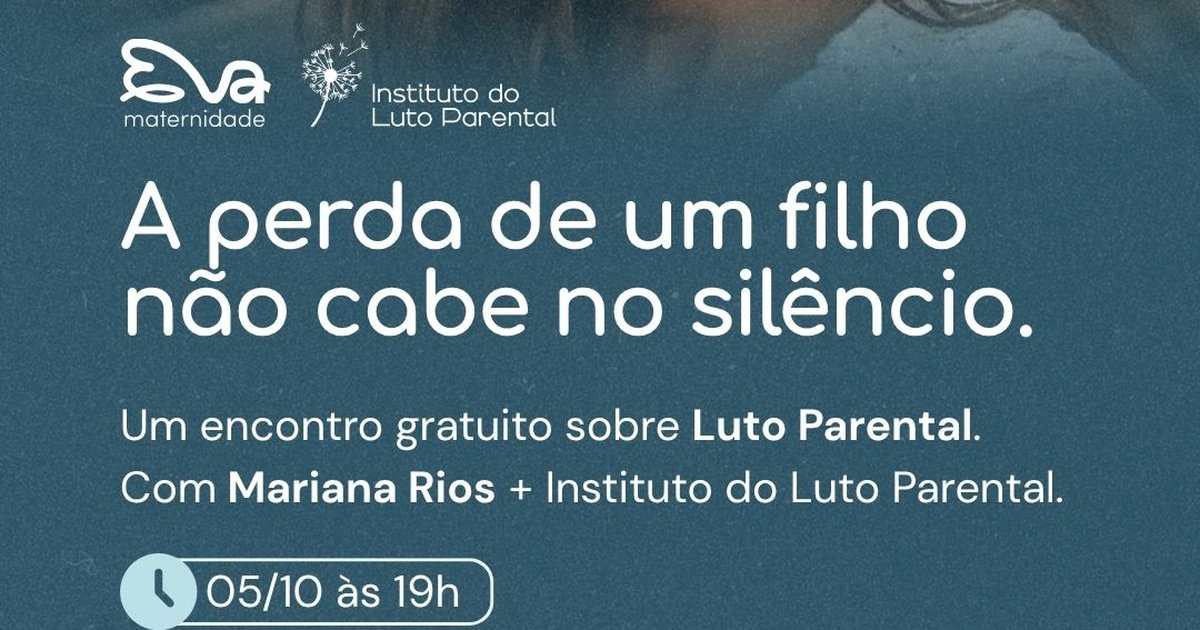
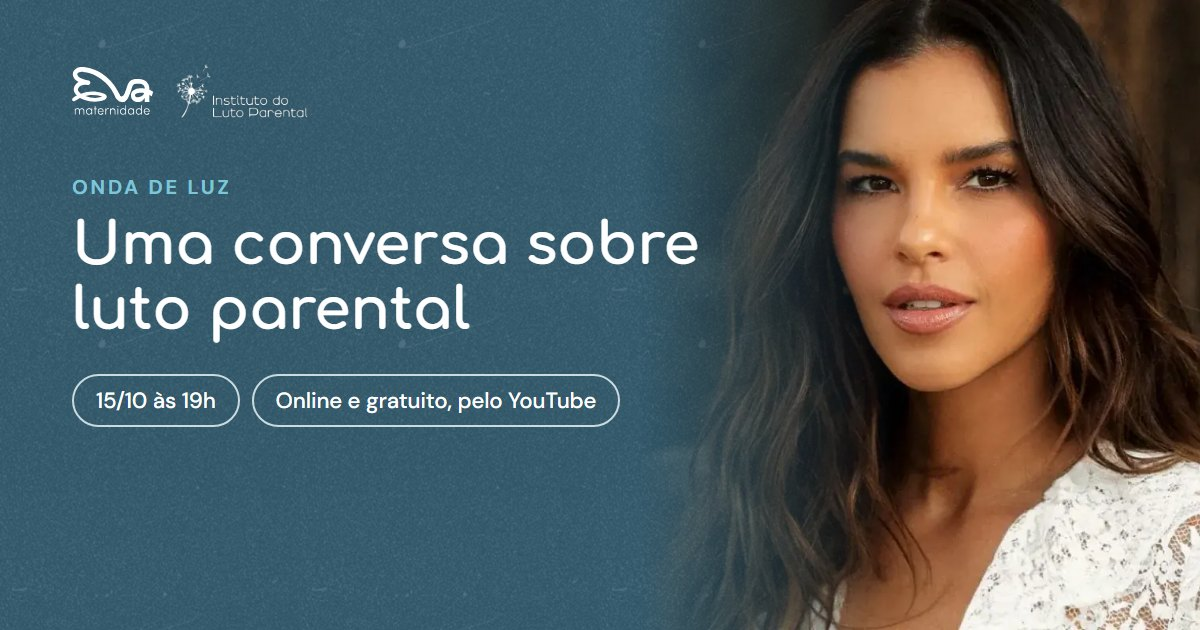
Apply team review: Onda de Luz, 15/10, host and copy updates

diff --git a/index.html b/index.html
@@ -3,13 +3,13 @@
 <head>
 <meta charset="utf-8">
 <meta name="viewport" content="width=device-width, initial-scale=1, viewport-fit=cover">
-<title>Masterclass Luto Parental | Eva Maternidade + Instituto do Luto Parental</title>
-<meta name="description" content="A perda de um filho não cabe no silêncio. Encontro online e gratuito sobre luto parental com Mariana Rios e Damiana Angrimani, do Instituto do Luto Parental. 05/10 às 19h, pelo YouTube.">
+<title>Onda de Luz: uma conversa sobre luto parental | Eva Maternidade + Instituto do Luto Parental</title>
+<meta name="description" content="Uma conversa online e gratuita sobre luto parental, conduzida por Nathália Tôrres, com Mariana Rios e Damiana Angrimani, do Instituto do Luto Parental. 15/10, às 19h, pelo YouTube.">
 <meta name="theme-color" content="#2F5668">
 <meta property="og:type" content="website">
 <meta property="og:locale" content="pt_BR">
-<meta property="og:title" content="Masterclass Luto Parental: a perda de um filho não cabe no silêncio">
-<meta property="og:description" content="Encontro online e gratuito com Mariana Rios e Damiana Angrimani, do Instituto do Luto Parental. 05/10 às 19h, pelo YouTube.">
+<meta property="og:title" content="Onda de Luz: uma conversa sobre luto parental">
+<meta property="og:description" content="15/10, às 19h, online e gratuito pelo YouTube. Com Nathália Tôrres, Mariana Rios e Damiana Angrimani.">
 <meta property="og:url" content="https://mp-syntx.github.io/luto_lp/">
 <meta property="og:image" content="https://mp-syntx.github.io/luto_lp/assets/img/og-image.jpg">
 <meta property="og:image:width" content="1200">
@@ -46,56 +46,59 @@
   </picture>
   <div class="wrap">
     <div class="hero-content">
-      <p class="kicker">Masterclass Luto Parental</p>
-      <h1>A perda de um filho não cabe no silêncio.</h1>
-      <p class="sub">Um bate-papo aberto e gratuito com <b>Mariana Rios</b> e <b>Damiana Angrimani</b>, do Instituto do Luto Parental, sobre o luto de quem perdeu um bebê: na gestação, no nascimento ou enquanto tentava engravidar.</p>
+      <p class="kicker">Onda de Luz · Uma conversa sobre luto parental</p>
+      <h1>Nenhuma perda precisa ser lembrada em silêncio.</h1>
+      <p class="sub">Uma conversa aberta e gratuita conduzida por <b>Nathália Tôrres</b>, fundadora da Eva Maternidade, com <b>Mariana Rios</b> e <b>Damiana Angrimani</b>, do Instituto do Luto Parental, sobre o luto de quem perdeu um bebê: em tratamentos e tentativas, na gestação ou depois do nascimento.</p>
       <ul class="chips">
-        <li class="chip"><span class="chip-ico" aria-hidden="true"><svg viewBox="0 0 24 24"><circle cx="12" cy="12" r="9"/><path d="M12 7v5l3 2"/></svg></span>05/10 às 19h</li>
+        <li class="chip"><span class="chip-ico" aria-hidden="true"><svg viewBox="0 0 24 24"><circle cx="12" cy="12" r="9"/><path d="M12 7v5l3 2"/></svg></span>15/10 às 19h</li>
         <li class="chip"><span class="chip-ico" aria-hidden="true"><svg viewBox="0 0 24 24"><rect x="3" y="6" width="18" height="12" rx="4"/><path d="M10.5 9.5v5l4-2.5z" class="fill"/></svg></span>Online, pelo YouTube</li>
       </ul>
       <a class="btn btn-light" href="#inscricao">Quero me inscrever</a>
-      <p class="apoio">Você não precisa passar por isso sozinha.</p>
     </div>
   </div>
-  <p class="mes"><span>Outubro, mês do luto gestacional, neonatal e infantil</span></p>
+  <p class="mes"><span>15 de outubro, Dia Internacional de Luto pela Perda Gestacional e Infantil</span></p>
 </section>
 
 <section class="publico">
   <div class="wrap">
     <div class="head">
-      <span class="tag">Pra quem é</span>
-      <h2>Cada luto tem a sua história</h2>
+      <span class="tag">Para quem é</span>
+      <h2>Cada luto tem uma história. E cada história merece espaço, escuta e cuidado.</h2>
     </div>
     <div class="cards">
       <article class="card">
         <div class="ico" aria-hidden="true"><svg viewBox="0 0 24 24"><circle cx="12" cy="12" r="8"/><path d="M12 8v4l2.5 2"/></svg></div>
-        <h3>Pra quem perdeu enquanto tentava engravidar</h3>
-        <p>As perdas que quase ninguém vê e que se repetem a cada ciclo também são luto. E merecem espaço.</p>
+        <h3>Para quem vive perdas durante tratamentos ou tentativas</h3>
+        <p>Para quem perdeu embriões, enfrentou ciclos sem o resultado esperado ou vive, mês após mês, o luto de perceber que a gravidez não aconteceu.</p>
         <a href="#inscricao">Quero participar <span aria-hidden="true">→</span></a>
       </article>
       <article class="card">
         <div class="ico" aria-hidden="true"><svg viewBox="0 0 24 24"><path d="M12 20s-7-4.4-7-10a4 4 0 0 1 7-2.6A4 4 0 0 1 19 10c0 5.6-7 10-7 10z"/></svg></div>
-        <h3>Pra quem perdeu um bebê na gestação ou depois do nascimento</h3>
-        <p>Pra falar do que aconteceu, do que mudou e de como seguir com essa saudade no dia a dia.</p>
+        <h3>Para quem perdeu um bebê na gestação ou depois do nascimento</h3>
+        <p>Para falar sobre o que aconteceu, o que mudou e como seguir.</p>
         <a href="#inscricao">Quero participar <span aria-hidden="true">→</span></a>
       </article>
       <article class="card">
         <div class="ico" aria-hidden="true"><svg viewBox="0 0 24 24"><circle cx="9" cy="12" r="5"/><circle cx="15" cy="12" r="5"/></svg></div>
-        <h3>Pra quem está grávida de novo ou já tem outro bebê</h3>
-        <p>A alegria de agora não apaga a perda de antes. As duas coisas podem existir juntas.</p>
+        <h3>Para quem viveu uma perda e agora é gestante ou tem outros filhos</h3>
+        <p>Uma nova alegria não apaga a perda anterior. Amor, medo, saudade e esperança podem coexistir na mesma história.</p>
         <a href="#inscricao">Quero participar <span aria-hidden="true">→</span></a>
       </article>
     </div>
-    <p class="nota">Também é pra <b>parceiros, avós, amigas e profissionais</b> que querem entender como acolher.</p>
+    <p class="nota">Também é para <b>parceiros, família, amigos, colegas de trabalho e profissionais</b> que querem aprender a acolher.</p>
   </div>
 </section>
 
 <section class="sobre grain">
   <div class="wrap">
-    <div class="duo">
+    <div class="duo trio">
+      <figure class="pessoa">
+        <div class="moldura"><img src="assets/img/nathalia-recorte.webp" alt="Nathália Tôrres" width="400" height="400" loading="lazy"></div>
+        <figcaption>Nathália Tôrres<small>Host · Fundadora da Eva Maternidade</small></figcaption>
+      </figure>
       <figure class="pessoa">
         <div class="moldura"><img src="assets/img/mariana-recorte.webp" alt="Mariana Rios" width="343" height="345" loading="lazy"></div>
-        <figcaption>Mariana Rios</figcaption>
+        <figcaption>Mariana Rios<small>Eva Maternidade</small></figcaption>
       </figure>
       <figure class="pessoa">
         <div class="moldura"><img src="assets/img/damiana-recorte.webp" alt="Damiana Angrimani" width="345" height="369" loading="lazy"></div>
@@ -106,9 +109,10 @@
       <span class="tag tag-dark">O encontro</span>
       <h2>Um bate-papo, não uma aula</h2>
       <ul class="checks checks-dark">
-        <li>Conversa em formato de roda, com Mariana Rios e Damiana Angrimani, do Instituto do Luto Parental</li>
-        <li>Espaço pra entender o luto parental e as diferentes formas de vivê-lo</li>
-        <li>Caminhos práticos pra lidar com datas, comentários e o retorno à rotina</li>
+        <li>Começamos às 19h com a Onda de Luz: acenda uma vela com a gente e, se quiser, escreva o nome do seu bebê no chat.</li>
+        <li>Conversa em formato de roda, conduzida por Nathália Tôrres, com Mariana Rios e Damiana Angrimani</li>
+        <li>Espaço para entender o luto parental e as diferentes formas de vivê-lo</li>
+        <li>Caminhos práticos para lidar com a dor, comentários e o retorno à rotina</li>
         <li>Participação pelo chat, com perguntas respondidas ao vivo</li>
       </ul>
       <a class="btn btn-light" href="#inscricao">Quero me inscrever</a>
@@ -124,11 +128,11 @@
     <div>
       <span class="tag tag-inst">Parceiro</span>
       <h2>Instituto do Luto Parental</h2>
-      <p class="txt">O Instituto nasceu pra acolher famílias que enfrentam a dor da perda gestacional, perinatal, neonatal e infantil. Eles acolhem, informam e formam profissionais, com rodas de conversa e acompanhamento feito por quem entende do assunto.</p>
+      <p class="txt">O Instituto nasceu para acolher famílias que enfrentam a dor da perda gestacional, perinatal, neonatal e infantil. Atua para acolher, informar e formar profissionais, com rodas de conversa e acompanhamento feito por quem entende do assunto.</p>
       <ul class="inst-lista">
         <li><span class="inst-ico" aria-hidden="true"><svg viewBox="0 0 24 24"><circle cx="8" cy="9" r="3"/><circle cx="16" cy="9" r="3"/><path d="M2.5 19c.6-3 2.8-5 5.5-5s4.9 2 5.5 5M10.5 19c.6-3 2.8-5 5.5-5s4.9 2 5.5 5"/></svg></span>Rodas de conversa gratuitas, online e presenciais, com grupos separados por experiência</li>
         <li><span class="inst-ico" aria-hidden="true"><svg viewBox="0 0 24 24"><path d="M12 20s-7-4.4-7-10a4 4 0 0 1 7-2.6A4 4 0 0 1 19 10c0 5.6-7 10-7 10z"/></svg></span>Mais de 9 mil pessoas acolhidas e 171 rodas de acolhimento realizadas</li>
-        <li><span class="inst-ico" aria-hidden="true"><svg viewBox="0 0 24 24"><path d="M3 7l9-4 9 4-9 4z"/><path d="M7 9v5c0 1.7 2.2 3 5 3s5-1.3 5-3V9"/></svg></span>Mais de 90 voluntários e formação em humanização do luto pra profissionais de saúde</li>
+        <li><span class="inst-ico" aria-hidden="true"><svg viewBox="0 0 24 24"><path d="M3 7l9-4 9 4-9 4z"/><path d="M7 9v5c0 1.7 2.2 3 5 3s5-1.3 5-3V9"/></svg></span>Mais de 90 voluntários e formação em humanização do luto para profissionais de saúde</li>
       </ul>
     </div>
   </div>
@@ -140,11 +144,11 @@
       <span class="tag">Dúvidas</span>
       <h2>Perguntas frequentes</h2>
     </div>
-    <details open><summary><span class="n">01</span>Quanto custa?<span class="pl" aria-hidden="true"></span></summary><p>A masterclass é gratuita.</p></details>
+    <details open><summary><span class="n">01</span>Quanto custa?<span class="pl" aria-hidden="true"></span></summary><p>O encontro é gratuito.</p></details>
     <details><summary><span class="n">02</span>Como eu assisto?<span class="pl" aria-hidden="true"></span></summary><p>É online, pelo YouTube. O link chega no seu e-mail e WhatsApp depois da inscrição.</p></details>
     <details><summary><span class="n">03</span>Preciso abrir a câmera ou falar?<span class="pl" aria-hidden="true"></span></summary><p>Não. Você pode só ouvir, de forma anônima, sem precisar se identificar. Se quiser, manda perguntas pelo chat.</p></details>
-    <details><summary><span class="n">04</span>Minha perda foi no começo da gestação. Esse encontro é pra mim?<span class="pl" aria-hidden="true"></span></summary><p>Sim. Todo luto conta, não importa a semana ou a forma como aconteceu.</p></details>
-    <details><summary><span class="n">05</span>Estou grávida de novo. Vou me sentir bem no encontro?<span class="pl" aria-hidden="true"></span></summary><p>O tema é aberto e vai falar de experiências diferentes. Se preferir um espaço mais reservado, as rodas fechadas da Eva separam os grupos por experiência.</p></details>
+    <details><summary><span class="n">04</span>Minha perda foi no começo da gestação. Esse encontro é para mim?<span class="pl" aria-hidden="true"></span></summary><p>Sim. Todo luto conta, não importa a semana ou a forma como aconteceu.</p></details>
+    <details><summary><span class="n">05</span>Estou grávida de novo. Vou me sentir bem no encontro?<span class="pl" aria-hidden="true"></span></summary><p>O tema é aberto e vai falar de experiências diferentes. Se preferir um espaço mais reservado, as rodas fechadas que acontecem dentro da plataforma da Eva Maternidade separam os grupos por experiência.</p></details>
     <details><summary><span class="n">06</span>Posso participar se não sou a mãe?<span class="pl" aria-hidden="true"></span></summary><p>Pode. Parceiros, familiares, amigas e profissionais são bem-vindos.</p></details>
   </div>
 </section>
@@ -153,9 +157,9 @@
   <div class="wrap">
     <div class="final-txt">
       <p class="kicker">Inscrição gratuita</p>
-      <h2>Você não precisa passar por isso sozinha</h2>
+      <h2>Reserve seu lugar nessa conversa.</h2>
       <ul class="chips">
-        <li class="chip"><span class="chip-ico" aria-hidden="true"><svg viewBox="0 0 24 24"><circle cx="12" cy="12" r="9"/><path d="M12 7v5l3 2"/></svg></span>05/10 às 19h</li>
+        <li class="chip"><span class="chip-ico" aria-hidden="true"><svg viewBox="0 0 24 24"><circle cx="12" cy="12" r="9"/><path d="M12 7v5l3 2"/></svg></span>15/10 às 19h</li>
         <li class="chip"><span class="chip-ico" aria-hidden="true"><svg viewBox="0 0 24 24"><rect x="3" y="6" width="18" height="12" rx="4"/><path d="M10.5 9.5v5l4-2.5z" class="fill"/></svg></span>Online, pelo YouTube</li>
       </ul>
     </div>
@@ -171,14 +175,15 @@
         <label for="f-whats">WhatsApp
           <input id="f-whats" name="phone" type="tel" autocomplete="tel-national" inputmode="tel" placeholder="(11) 90000-0000" required>
         </label>
-        <label for="f-exp"><span>Qual a sua experiência? <span class="opt">(opcional)</span></span>
+        <label for="f-exp"><span>Qual é a sua relação com o tema? <span class="opt">(opcional)</span></span>
           <select id="f-exp" name="experiencia">
             <option value="">Prefiro não dizer</option>
-            <option>Perdi tentando engravidar</option>
-            <option>Perdi na gestação ou após o nascimento</option>
-            <option>Estou grávida ou com bebê depois de uma perda</option>
-            <option>Acompanho alguém</option>
-            <option>Sou profissional</option>
+            <option>Vivi uma perda em tratamento ou tentativa de engravidar</option>
+            <option>Vivi uma perda gestacional ou neonatal</option>
+            <option>Vivi uma perda e hoje estou grávida ou tenho outros filhos</option>
+            <option>Vivi a perda como parceiro ou parceira</option>
+            <option>Sou familiar ou amigo(a) de alguém que viveu uma perda</option>
+            <option>Trabalho com o tema</option>
           </select>
         </label>
         <p class="form-err" id="f-err" role="alert" hidden></p>
@@ -188,7 +193,7 @@
       <div class="form-ok" id="f-ok" tabindex="-1" hidden>
         <span class="ok-ico" aria-hidden="true"><svg viewBox="0 0 24 24"><path d="M5 12l5 5 9-10"/></svg></span>
         <h3>Inscrição feita</h3>
-        <p>O link do encontro chega no seu e-mail e WhatsApp. Até dia 05/10, às 19h.</p>
+        <p>O link do encontro chega no seu e-mail e WhatsApp. Até dia 15/10, às 19h.</p>
       </div>
     </form>
   </div>

diff --git a/styles.css b/styles.css
@@ -59,12 +59,12 @@ section{padding-block:88px;position:relative}
 /* hero */
 .hero{padding-block:96px 120px;overflow:hidden;min-height:min(92vh,820px);display:flex;align-items:center}
 .hero .wrap{width:100%}
-.hero-content{max-width:560px;position:relative}
+.hero-content{max-width:620px;position:relative}
 .hero-media{position:absolute;top:0;right:0;bottom:0;width:58%;z-index:-1}
 .hero-media img{width:100%;height:100%;object-fit:cover;object-position:50% 30%;
   -webkit-mask-image:linear-gradient(to right,transparent 0%,rgba(0,0,0,.55) 22%,#000 45%),linear-gradient(to top,transparent 0%,#000 30%);
   -webkit-mask-composite:source-in;mask-image:linear-gradient(to right,transparent 0%,rgba(0,0,0,.55) 22%,#000 45%),linear-gradient(to top,transparent 0%,#000 30%);mask-composite:intersect}
-.hero h1{font-size:clamp(38px,5vw,62px);color:#fff;margin-bottom:24px;font-weight:700;letter-spacing:-.01em}
+.hero h1{font-size:clamp(36px,4.4vw,56px);color:#fff;margin-bottom:24px;font-weight:700;letter-spacing:-.01em}
 .hero .sub{font-size:19px;color:var(--on-dark);max-width:32em;margin-bottom:28px}
 .hero .sub b{color:#fff}
 .hero .apoio{margin-top:22px;font-family:var(--display);font-size:17px;color:var(--sky)}
@@ -87,8 +87,12 @@ section{padding-block:88px;position:relative}
 .nota b{color:var(--ink)}
 
 /* sobre + palestrantes */
-.sobre .wrap{display:grid;grid-template-columns:1fr 1fr;gap:64px;align-items:center}
+.sobre .wrap{display:grid;grid-template-columns:1.1fr .9fr;gap:56px;align-items:center}
 .duo{display:grid;grid-template-columns:1fr 1fr;gap:20px}
+.trio{grid-template-columns:repeat(3,1fr);gap:16px}
+.trio .moldura{border-radius:4px 48px 4px 4px}
+.trio .pessoa figcaption{font-size:14px}
+.trio .pessoa figcaption small{font-size:13px;line-height:1.35;margin-top:4px}
 .pessoa{margin:0}
 .moldura{background:var(--sky);border-radius:4px 64px 4px 4px;aspect-ratio:1/1;overflow:hidden;display:flex;align-items:flex-end;justify-content:center}
 .moldura img{width:100%;height:100%;object-fit:cover;object-position:50% 10%}
@@ -193,6 +197,10 @@ footer .cuidado b{color:#fff}
   form{padding:24px 20px}
   .duo{gap:12px}
   .pessoa figcaption{font-size:13px}
+  .trio{gap:10px}
+  .trio .moldura{border-radius:4px 32px 4px 4px}
+  .trio .pessoa figcaption{font-size:12px;letter-spacing:.03em;margin-top:10px}
+  .trio .pessoa figcaption small{font-size:12px}
 }
 @media (max-width:370px){
   .top .logo-eva{height:28px}
